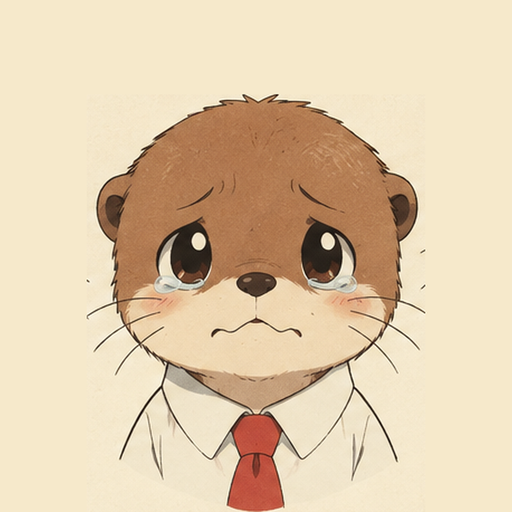
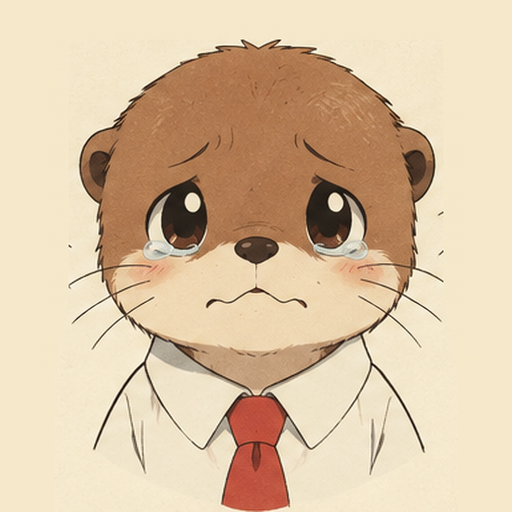
Shrink only Pri's head slightly instead of the whole bust
Claude-Session: https://claude.ai/code/session_01XZvzYgUYfAerUNYrwtoPMP

diff --git a/.claude/skills/priamos-daily/SKILL.md b/.claude/skills/priamos-daily/SKILL.md
@@ -234,7 +234,7 @@ cp $W/caption.txt cards/$D-$NN.txt && cp $W/caption.txt reels/$D-$NN.txt
 마스코트는 오리지널 캐릭터 **아기 수달 쌍둥이 "프리"와 "아모"**다(사용자 결정 "쌍둥이 컨셉으로 가자", 이름은 계정 이름 Priamos를 둘로 나눈 것, 2026-11-08).
 - 생김새: 카라멜색 털, 크림색 얼굴, 볼 홍조, 흰 셔츠에 넥타이(꼬마 뉴스 앵커). 상반신 구도이고, 카드 그림과 같은 레트로 셀 애니 그림체다.
 - 둘은 넥타이 색과 성별로 구분한다(사용자 결정 "빨간은 여자고 파랑은 남자", 2026-11-08).
-  - **프리, 여자아이, 빨간 넥타이(명랑한 쪽)**: `assets/mascot/*.png`, Figma 노드 90:2. 같은 그림을 84%로 줄여 아래쪽에 맞춰서, 배지 안에서 얼굴이 아모보다 조금 작게 보인다(사용자 요청 "이때로 다시 하되 여자애 얼굴 크기만 좀 더 작게", 2026-11-08). 원래 크기 표정은 `archive/otter_tie_red/`.
+  - **프리, 여자아이, 빨간 넥타이(명랑한 쪽)**: `assets/mascot/*.png`, Figma 노드 90:2. 같은 그림에서 **머리만 93%로** 줄였다(목 아래 셔츠·넥타이는 원래 크기 그대로). 아모보다 머리가 아주 조금 작다(사용자 요청 "머리를 작게 하라고 했지 몸집을 작게 하라는 게 아닌데, 남자보단 진짜 조금 작게", 2026-11-08). 원래 크기 표정은 `archive/otter_tie_red/`.
   - **아모, 남자아이, 청록 넥타이(차분한 쪽)**: `assets/mascot/twin/*.png`, Figma 노드 90:3
   - 각자 표정 5개(calm, surprised, sad, happy, curious)를 고정해서 쓴다. 원본은 `assets/mascot/sheet.png`, `assets/mascot/archive/otter_tie_teal/sheet.png`.
 - **회차마다 새로 그리지 않는다.** 새로 그리면 생김새가 바뀌어 "그 계정" 기억이 안 생긴다.

diff --git a/log/weekly.md b/log/weekly.md
@@ -50,3 +50,4 @@ priamos-weekly 가 매주 바꾼 설정과 근거를 적는다. 비공개 지표
 - 쌍둥이 이름을 **프리(빨간 넥타이)·아모(청록 넥타이)**로 정했다(사용자 선택, 계정 이름 Priamos를 둘로 나눔). 팔로우 장과 릴스 끝 화면의 말풍선이 "프리·아모가 매일 5번 전해요!"로 바뀌었다. 같은 이름의 기존 캐릭터는 검색되지 않았다(웹 검색 1회, 상표 조회는 하지 않음).
 - 사용자 요청("빨간은 여자고 파랑은 남자로 하고 여자애는 얼굴을 더 작게", 이어서 "여자애는 단발로")으로 **프리는 여자아이, 아모는 남자아이**로 정했다. 프리를 새로 그렸다: 단발머리, 빨간 머리핀 리본, 흰 블라우스에 빨간 리본 타이, 얼굴을 작게 그린 허리 위 구도(Figma 노드 92:4). 아모는 그대로다. 이전 빨간 넥타이 프리와 다른 안 3개는 `assets/mascot/archive/` 에 보관했다. 시험 시작(11/9 07:37) 전 변경이다.
 - 이어서 사용자 요청("아니 그냥 이때로 다시 하되 여자애 얼굴 크기만 좀 더 작게")으로 단발 프리를 되돌렸다. 프리는 다시 **빨간 넥타이 그림(노드 90:2)**이고 여자아이로 둔다. 같은 그림을 84%로 줄여 배지 안 얼굴이 아모보다 조금 작게 보이게 했다. 단발 버전은 `assets/mascot/archive/girl_bob_pin/` 에 보관했다. 시험 시작 전 변경이다.
+- 이어서 사용자 정정("머리를 작게 하라고 했지 몸집을 작게 하라는 게 아닌데, 남자보단 진짜 조금 작게")으로 전체 84% 축소를 취소하고, 프리 그림에서 **머리만 93%**로 줄였다. 목 아래 셔츠·넥타이는 원래 크기 그대로다. 시험 시작 전 변경이다.
